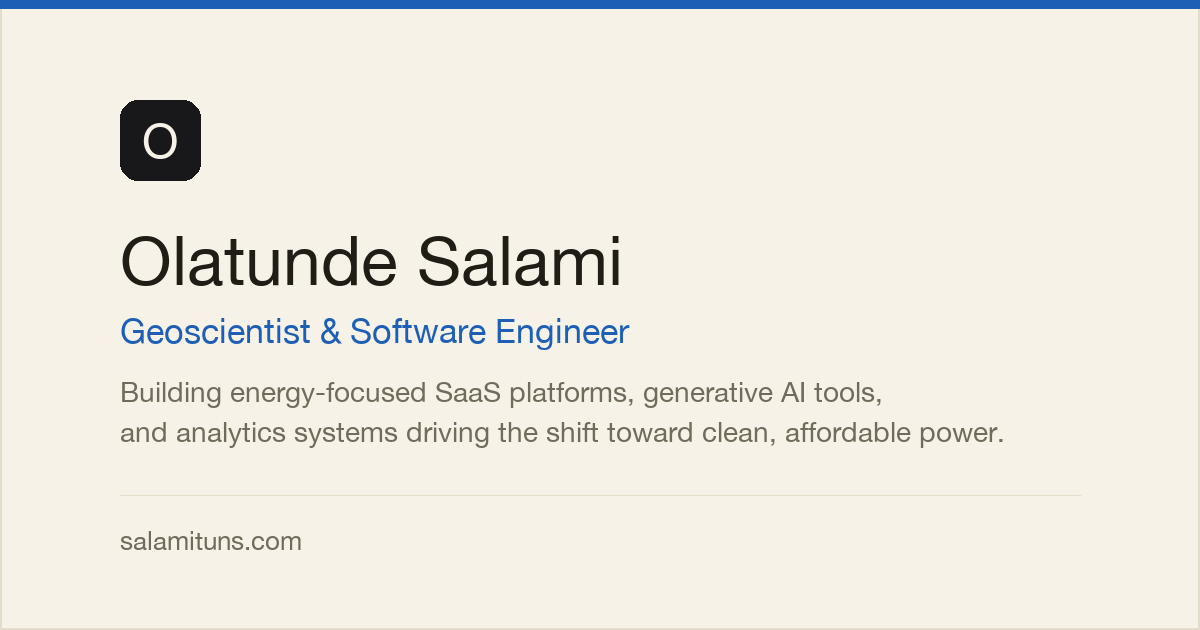
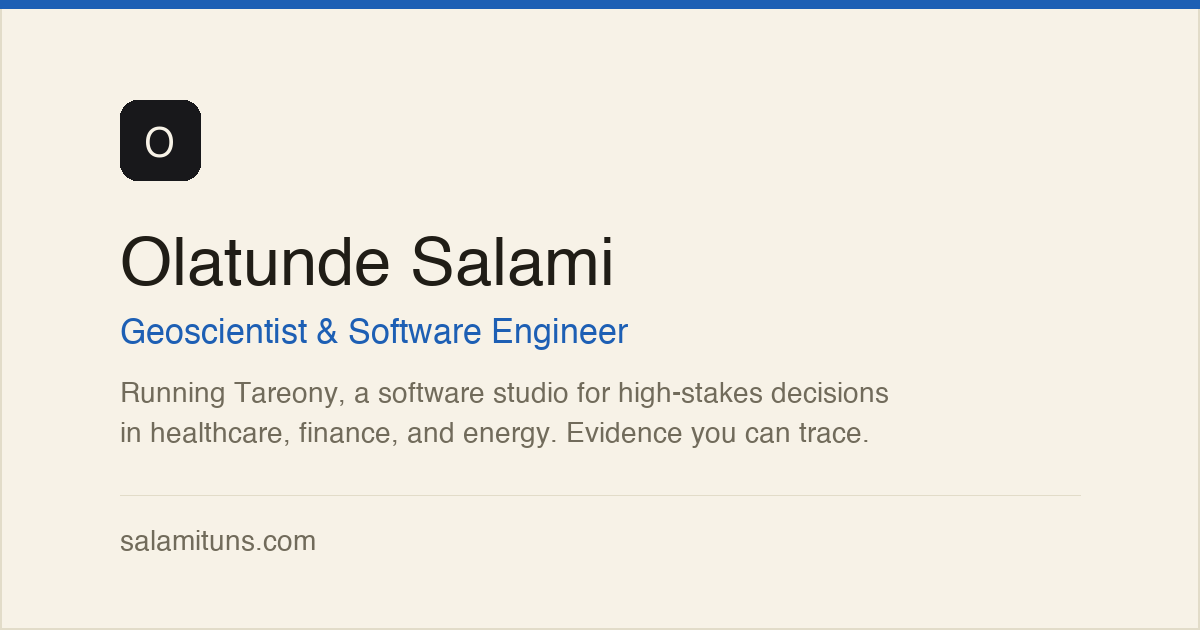
Rewrite the intro around Tareony and add it to the projects grid.
- Lead the bio with Tareony, then the open work, instead of energy alone
- Keep "geoscientist and software engineer" so both fields stay current
- Match meta, Open Graph, Twitter and JSON-LD (worksFor) to the new bio
- Regenerate og-image.png with the new tagline; version its URL so
  social caches refetch it
- Add a Tareony card first in the grid

diff --git a/index.html b/index.html
@@ -3,7 +3,7 @@
 <head>
     <meta charset="UTF-8">
     <meta name="viewport" content="width=device-width, initial-scale=1.0">
-    <meta name="description" content="Olatunde Salami — geoscientist and software engineer building energy-focused SaaS platforms, generative AI tools, and analytics systems.">
+    <meta name="description" content="Olatunde Salami — geoscientist and software engineer. I run Tareony, a software studio for high-stakes decisions in healthcare, finance, and energy.">
     <meta name="author" content="Olatunde Salami">
     <meta name="robots" content="index, follow">
     <link rel="canonical" href="https://salamituns.com">
@@ -11,15 +11,15 @@
     <!-- Open Graph / Social Media -->
     <meta property="og:type" content="website">
     <meta property="og:title" content="Olatunde Salami">
-    <meta property="og:description" content="Geoscientist and software engineer building energy-focused SaaS platforms, generative AI tools, and analytics systems.">
+    <meta property="og:description" content="Geoscientist and software engineer running Tareony, a software studio for high-stakes decisions in healthcare, finance, and energy.">
     <meta property="og:url" content="https://salamituns.com">
-    <meta property="og:image" content="https://salamituns.com/og-image.png">
+    <meta property="og:image" content="https://salamituns.com/og-image.png?v=2">
     <meta property="og:image:width" content="1200">
     <meta property="og:image:height" content="630">
     <meta name="twitter:card" content="summary_large_image">
     <meta name="twitter:title" content="Olatunde Salami">
-    <meta name="twitter:description" content="Geoscientist and software engineer building energy-focused SaaS platforms, generative AI tools, and analytics systems.">
-    <meta name="twitter:image" content="https://salamituns.com/og-image.png">
+    <meta name="twitter:description" content="Geoscientist and software engineer running Tareony, a software studio for high-stakes decisions in healthcare, finance, and energy.">
+    <meta name="twitter:image" content="https://salamituns.com/og-image.png?v=2">
 
     <script type="application/ld+json">
     {
@@ -31,6 +31,11 @@
           "name": "Olatunde Salami",
           "url": "https://salamituns.com",
           "jobTitle": "Geoscientist and Software Engineer",
+          "worksFor": {
+            "@type": "Organization",
+            "name": "Tareony",
+            "url": "https://tareony.com"
+          },
           "sameAs": [
             "https://www.linkedin.com/in/salamituns/",
             "https://github.com/salamituns",
@@ -561,11 +566,19 @@
     <main>
         <h1>Olatunde Salami</h1>
 
-        <p class="bio">I am a geoscientist and software engineer building energy-focused SaaS platforms. I develop generative AI tools and analytics systems that help organizations optimize how they consume and manage energy—ultimately driving the shift toward clean, affordable power.</p>
+        <p class="bio">I’m a geoscientist and software engineer. I run <a href="https://tareony.com">Tareony</a>, a software studio for high-stakes decisions in healthcare, finance, and energy: compliance operations for home health agencies and fintechs, and a deal screen for oil and gas acquisitions.</p>
+
+        <p class="bio">On my own time I build in the open, from a public knowledge graph of Nigeria’s government to a plugin for watching AI coding agents browse. The thread through all of it is evidence: data you can trace to the source, with gaps shown instead of guessed.</p>
 
         <section>
             <h2>Projects</h2>
             <div class="project-grid">
+                <article class="project-card">
+                    <h3>
+                        <a href="https://tareony.com">Tareony</a>
+                    </h3>
+                    <p>My software studio, building operational software where every decision carries its evidence: compliance work that becomes an audit-ready record, sign-offs an auditor can verify, and oil and gas deals tested against the offset wells producing next door.</p>
+                </article>
                 <article class="project-card">
                     <h3>
                         <a href="https://github.com/salamituns/herdr-browser">herdr-browser</a>

diff --git a/README.md b/README.md
@@ -52,8 +52,9 @@ Under `npx serve`, the contributions graph falls back to calling the public API 
 
 Everything lives in `index.html`. Content sections are marked with `<section>` tags:
 
-- **Projects** — add an `<article class="project-card">` to the top of `.project-grid`
-  (newest first). With an odd number of cards, the first spans both columns automatically.
+- **Projects** — add an `<article class="project-card">` to `.project-grid`, most important
+  first. With an odd number of cards, the first spans both columns automatically. Cards
+  sharing a row look best with descriptions of similar length.
 - **Writing** — add an `<li>` with the post URL and a
   `<time class="entry-date" datetime="YYYY-MM-DD">Mon YYYY</time>`
 - **Links** — the `li` items in the Links list
